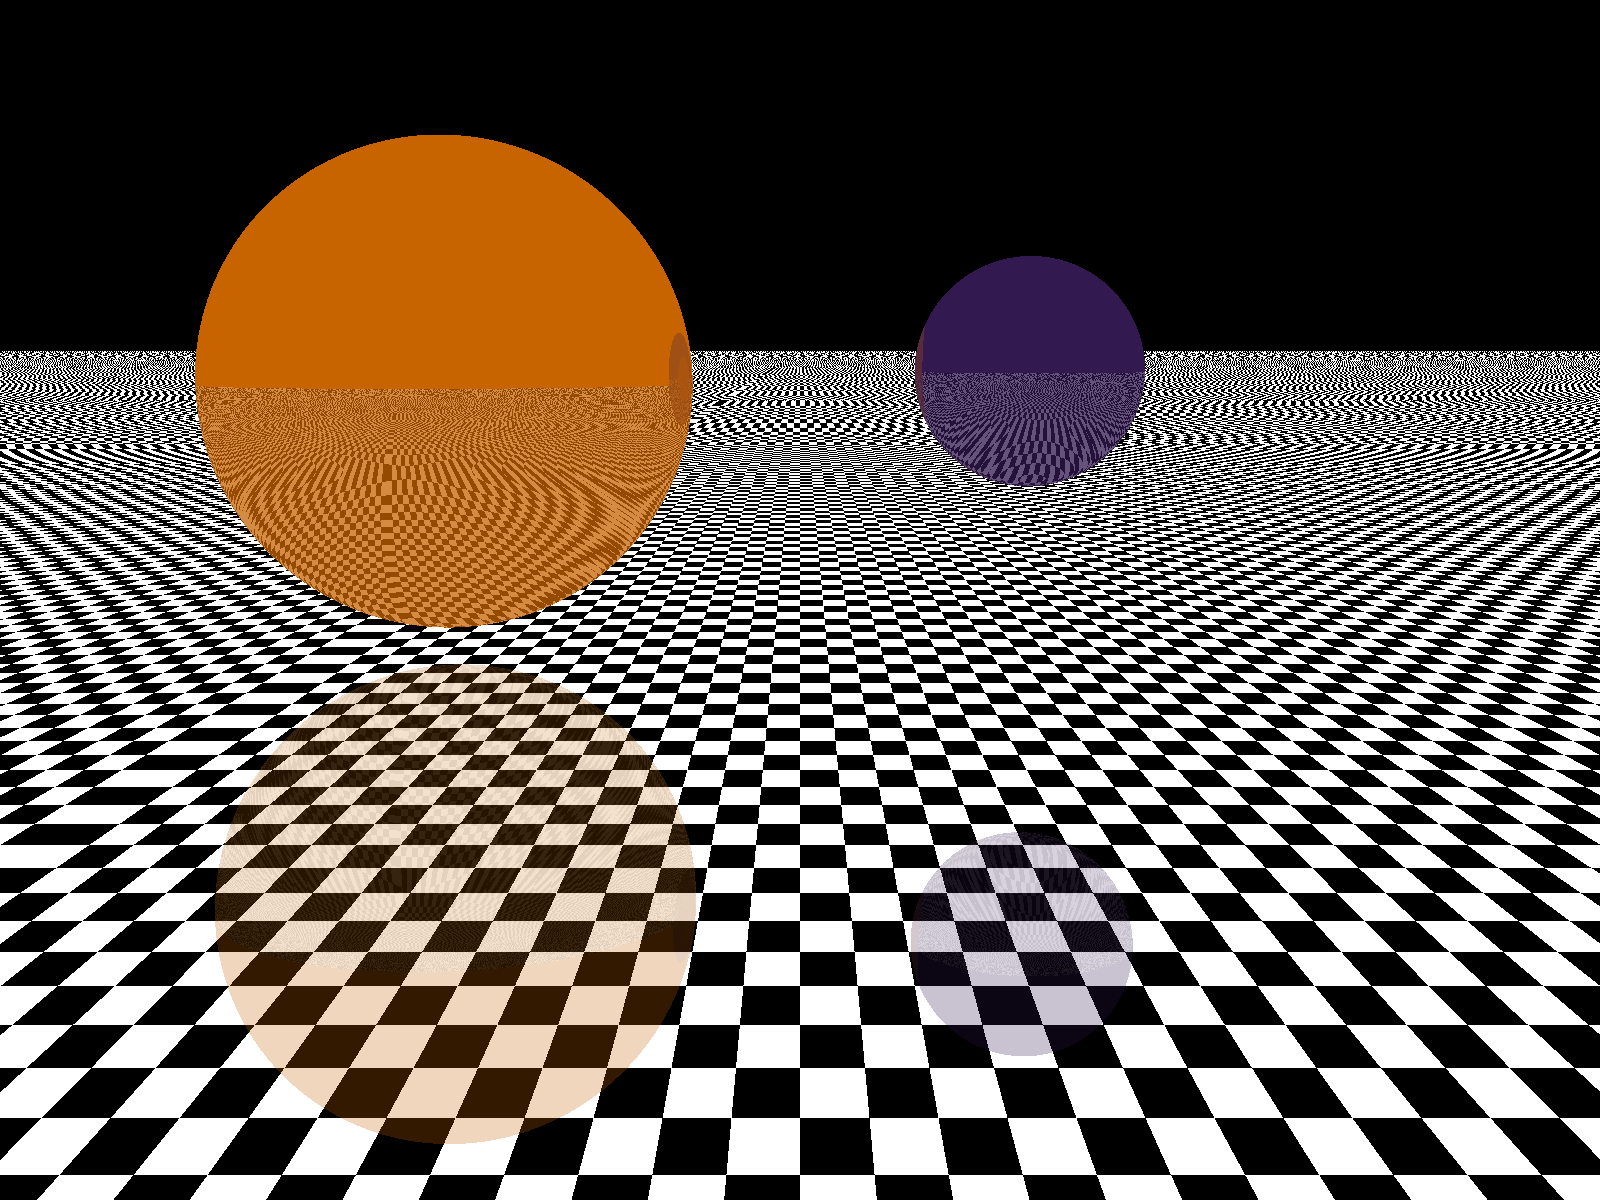
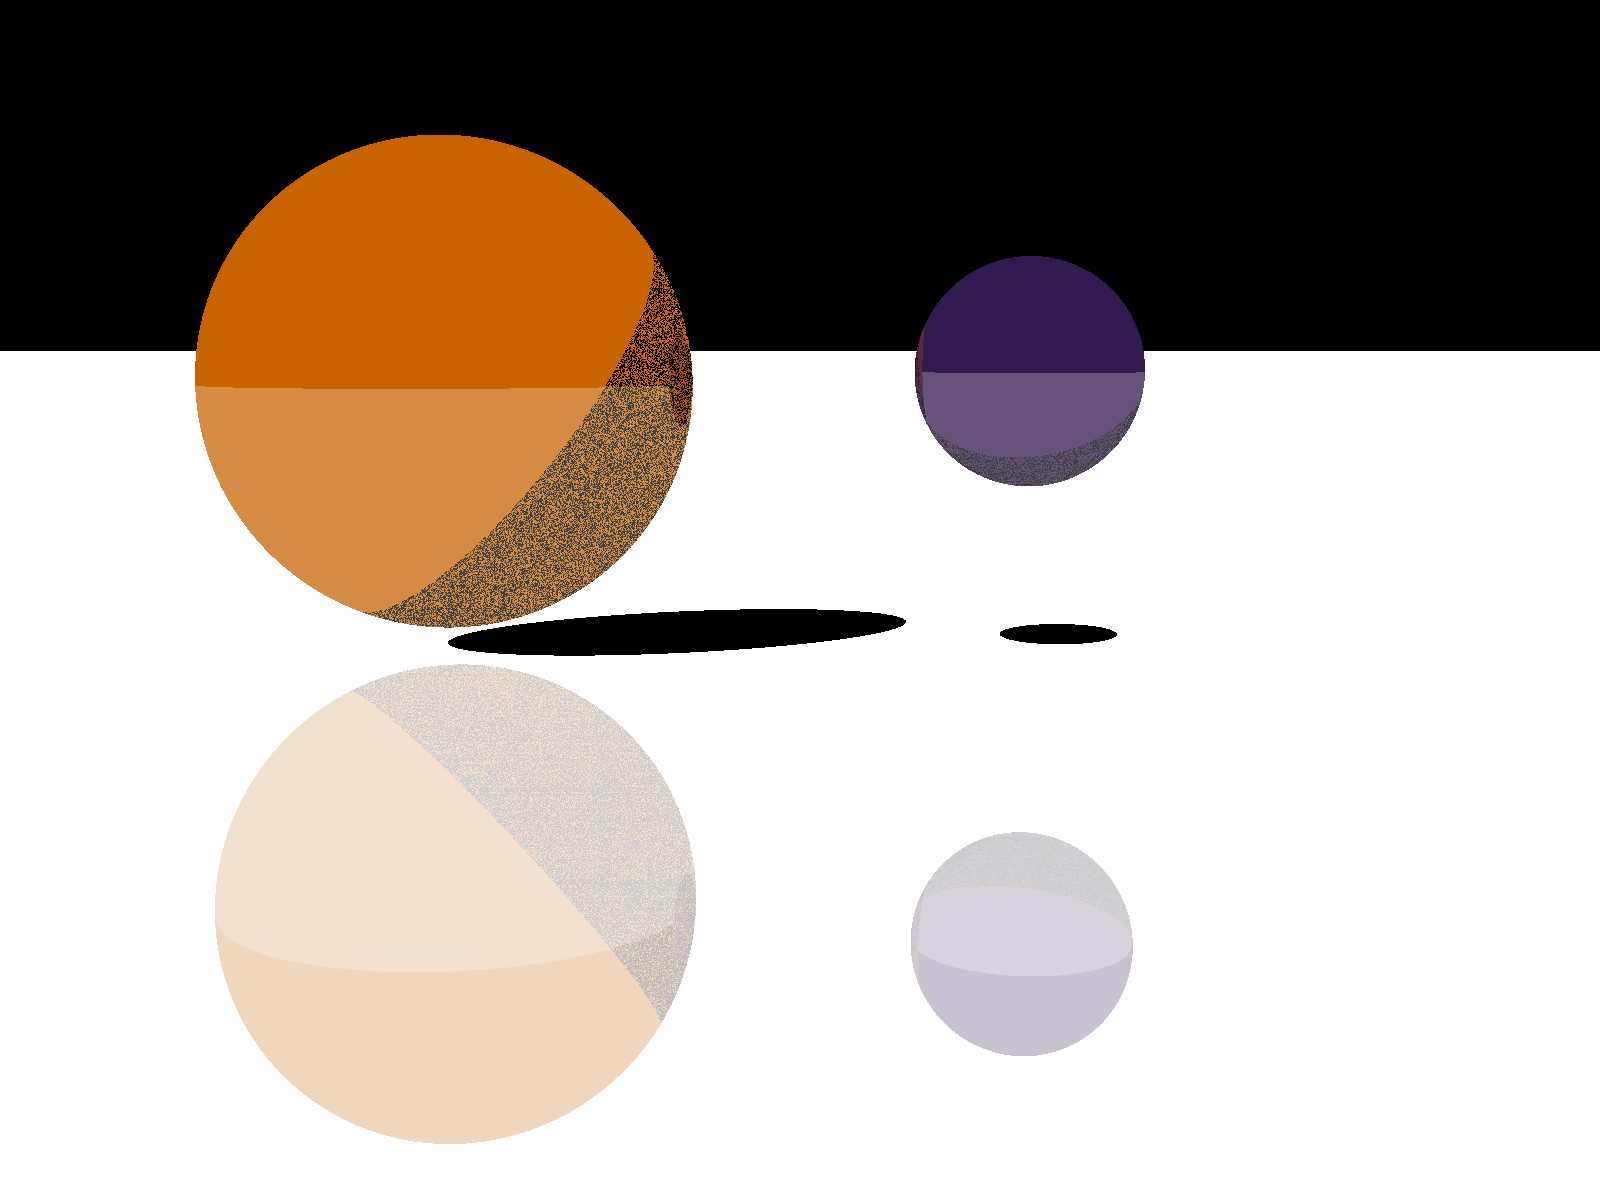
shadow?!

diff --git a/plane.go b/plane.go
@@ -1,7 +1,6 @@
 package main
 
 import "image/color"
-import "math"
 
 type Plane struct {
 	location        Vector
@@ -18,16 +17,19 @@ func (this Plane) FindIntersection(ray Ray) (float64, color.RGBA, bool) {
 		return 0, color.RGBA{0, 0, 0, 0}, false
 	}
 
-	reflectionRay := this.GetReflectionRay(ray, intersectionDistance)
-	locationOfIntersection := reflectionRay.origin
+	/*
+		reflectionRay := this.GetReflectionRay(ray, intersectionDistance)
+		locationOfIntersection := reflectionRay.origin
 
-	//Create chessboard by inverting plane color if x and y are both eval or odd
-	chessboardVector := locationOfIntersection.AddVector(this.location.Negative())
+		//Create chessboard by inverting plane color if x and y are both eval or odd
+		chessboardVector := locationOfIntersection.AddVector(this.location.Negative())
 
-	var returnColor color.RGBA = this.color
-	if math.Abs(math.Mod(float64(int(chessboardVector.x)), 2)) == 0 && math.Abs(math.Mod(float64(int(chessboardVector.y*correctionOfSquareChessboard)), 2)) == 0 || math.Abs(math.Mod(float64(int(chessboardVector.x)), 2)) == 1 && math.Abs(math.Mod(float64(int(chessboardVector.y*correctionOfSquareChessboard)), 2)) == 1 {
-		returnColor = color.RGBA{uint8(255 - this.color.R), uint8(255 - this.color.G), uint8(255 - this.color.B), uint8(255 - this.color.A)}
-	}
+		var returnColor color.RGBA = this.color
+		if math.Abs(math.Mod(float64(int(chessboardVector.x)), 2)) == 0 && math.Abs(math.Mod(float64(int(chessboardVector.y*correctionOfSquareChessboard)), 2)) == 0 || math.Abs(math.Mod(float64(int(chessboardVector.x)), 2)) == 1 && math.Abs(math.Mod(float64(int(chessboardVector.y*correctionOfSquareChessboard)), 2)) == 1 {
+			returnColor = color.RGBA{uint8(255 - this.color.R), uint8(255 - this.color.G), uint8(255 - this.color.B), uint8(255 - this.color.A)}
+		}
+	*/
+	returnColor := color.RGBA{255, 255, 255, 0}
 
 	return intersectionDistance, returnColor, true
 }

diff --git a/main.go b/main.go
@@ -1,6 +1,7 @@
 package main
 
 import "image/png"
+
 import "image/color"
 import "os"
 import "log"
@@ -65,12 +66,14 @@ outer:
 
 		isShadow := false
 		// is shadow?
-		for _, _item := range items {
-			_distance, _, _ := _item.FindIntersection(rayToLight)
+		for _index, _item := range items {
+			if itemBefore != _index {
+				_distance, _, _ := _item.FindIntersection(rayToLight)
 
-			if _distance > 0 {
-				isShadow = true
-				break
+				if _distance < 0 {
+					isShadow = true
+					break
+				}
 			}
 		}
 		if isShadow {
@@ -85,17 +88,17 @@ outer:
 		colorOfNextIntersectionItem, useThisColor := GetColorOfPixelInImage(redirectedRay, light, items, actualShortestInAllItems, recursionDeepness-1, reflectionStrength)
 		if useThisColor == false {
 			if isShadow {
-				//color.B = 0
-				//color.G = 0
-				//color.R = 0
+				color.B = 0
+				color.G = 0
+				color.R = 0
 			}
 			return color, true
 
 		} else {
 			if isShadow {
-				//color.B = 0
-				//color.G = 0
-				//color.R = 0
+				color.B = 0
+				color.G = 0
+				color.R = 0
 			}
 			return MergeColors(color, colorOfNextIntersectionItem, reflectionStrength), true
 		}
